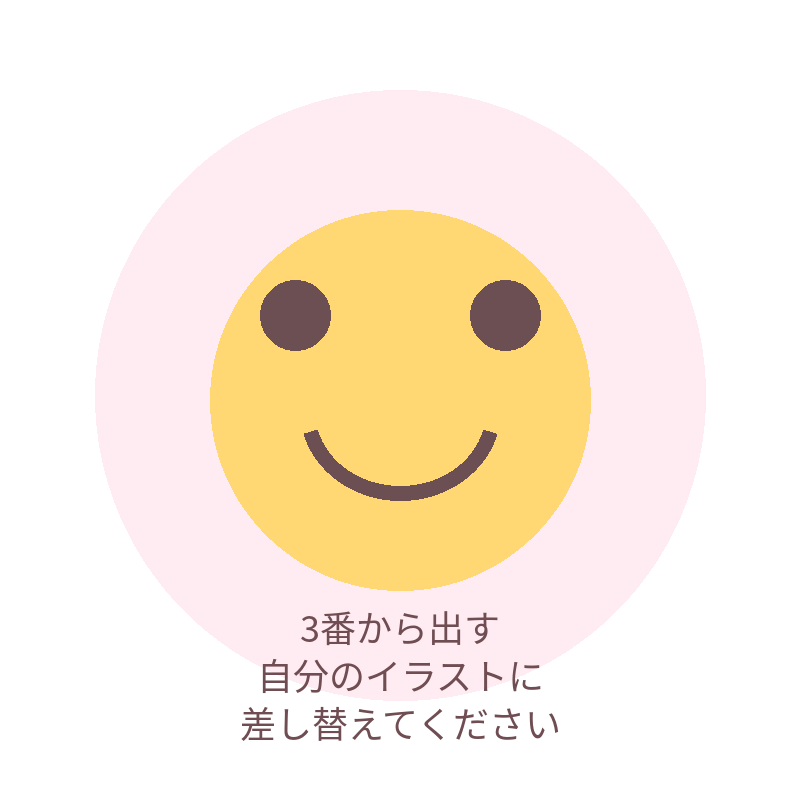
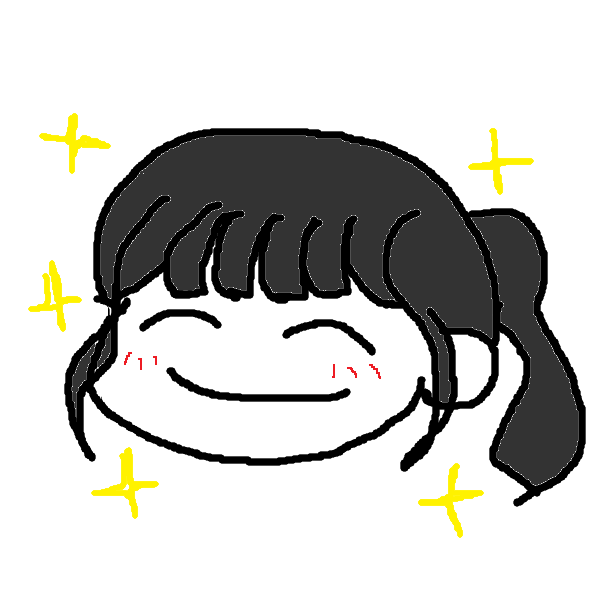
Add files via upload

diff --git a/style.css b/style.css
@@ -20,6 +20,23 @@ html,
 body {
   min-height: 100%;
   margin: 0;
+  background:
+    radial-gradient(
+      circle at 10% 12%,
+      rgba(255, 255, 255, .9) 0 7px,
+      transparent 8px
+    ),
+    radial-gradient(
+      circle at 88% 18%,
+      rgba(255, 255, 255, .8) 0 5px,
+      transparent 6px
+    ),
+    linear-gradient(
+      180deg,
+      #fff1f6 0%,
+      #fff9ef 55%,
+      #fff4f7 100%
+    );
 }
 
 body {
@@ -164,9 +181,10 @@ input {
 .answer-message.is-correct { color: var(--google-green); }
 
 .gate-hint {
-  margin: 3px 0 0;
-  color: #8a8a8a;
-  font-size: 11px;
+  margin: 10px 0 0;
+  color: #666;
+  font-size: 15px;
+  line-height: 1.5;
 }
 
 .gate-page.is-leaving {
@@ -184,7 +202,7 @@ input {
 }
 
 .birthday-page.is-entering {
-  animation: birthdayEnter .6s ease both;
+  animation: none;
 }
 
 .page {
@@ -192,20 +210,23 @@ input {
   min-height: 100vh;
   min-height: 100dvh;
   margin: 0 auto;
-  padding: 0 18px max(32px, env(safe-area-inset-bottom));
+  padding: 8px 18px 32px;
   display: flex;
   flex-direction: column;
   align-items: center;
+  justify-content: flex-start;
 }
 
 .hero {
   width: 100%;
+  margin: 0;
+  padding: 0;
   text-align: center;
   animation: fadeDown .7s ease both;
 }
 
 .small-title {
-  margin: 0 0 8px;
+  margin: 0 0 12px;
   font-family: "Quicksand", sans-serif;
   font-size: 12px;
   font-weight: 700;
@@ -223,19 +244,19 @@ input {
 }
 
 .description {
-  margin: 18px 0 8px;
+  margin: 14px 0 4px;
   font-size: 15px;
-  line-height: 1.9;
+  line-height: 1.7;
 }
 
 .gift-area {
   width: 100%;
-  flex: 1;
+  flex: none;
   display: grid;
   grid-template-columns: repeat(2, minmax(0, 1fr));
-  align-content: center;
+  align-content: start;
   gap: 12px 14px;
-  margin-top: 12px;
+  margin-top: 10px;
   padding: 8px 10px;
 }
 
@@ -483,3 +504,23 @@ input {
     scroll-behavior: auto !important;
   }
 }
+
+.birthday-page {
+  margin: 0;
+  padding: 0;
+}
+
+.birthday-page[hidden] {
+  display: none;
+}
+
+.hero {
+  margin-top: 0;
+  padding-top: 0;
+}
+
+.gate-page[hidden],
+.birthday-page[hidden] {
+  display: none !important;
+}
+

diff --git a/index.html b/index.html
@@ -3,7 +3,7 @@
 <head>
   <meta charset="UTF-8">
   <meta name="viewport" content="width=device-width, initial-scale=1.0, viewport-fit=cover">
-  <meta name="theme-color" content="#ffffff">
+  <meta name="theme-color" content="#fff1f6">
   <title>Naooogle Birthday</title>
   <link rel="stylesheet" href="style.css">
 </head>
@@ -25,7 +25,7 @@
           type="number"
           inputmode="numeric"
           pattern="[0-9]*"
-          placeholder="答えを入力"
+          placeholder="答えを入力して右の虫眼鏡マークを押してね"
           aria-label="計算問題の答え"
           required
         >
@@ -33,7 +33,7 @@
       </form>
 
       <p id="answerMessage" class="answer-message" aria-live="polite"></p>
-      <p class="gate-hint">答えを入力して、右のボタンかEnterを押してね</p>
+      <p class="gate-hint">答えを入力して、右の虫眼鏡マークかEnterを押してね</p>
     </section>
   </main>
 

diff --git a/script.js b/script.js
@@ -121,7 +121,7 @@ const giftData = {
     html: '<p class="result-text">あたりは3つだよ！</p>'
   },
   6: {
-    title: "あたり！\nさやから！イラストのプレゼント！",
+    title: "あたり！\nさやから！\nイラストのプレゼント！",
     html: '<img class="illustration" src="assets/illustration6.png" alt="6番のイラストのプレゼント">',
     confetti: true
   }
